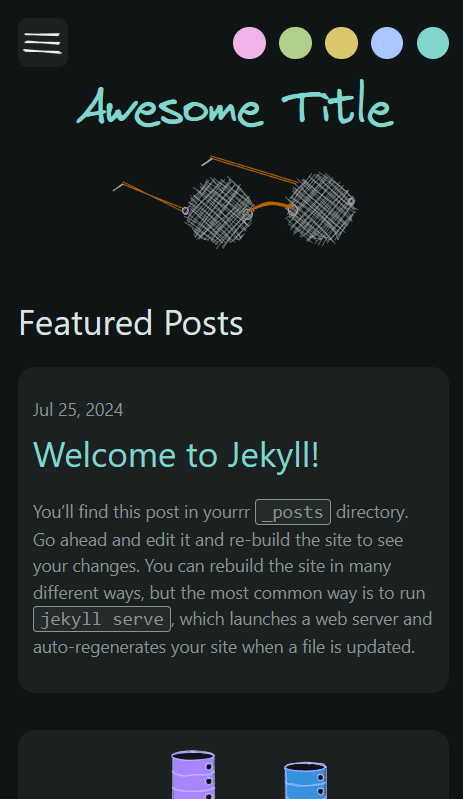
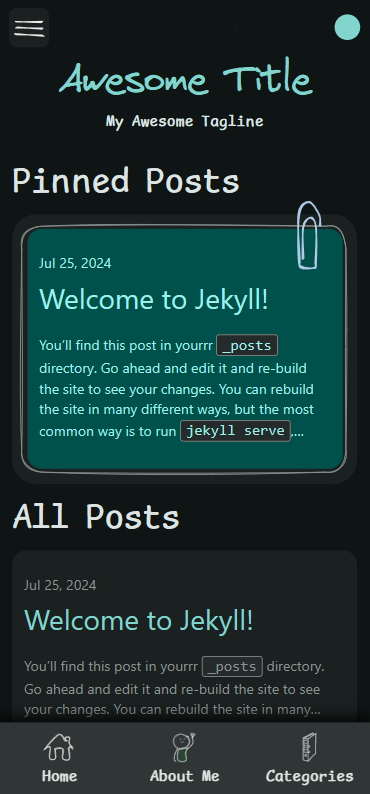
updated theme name and readme

diff --git a/README.md b/README.md
@@ -1,6 +1,6 @@
 # Dark Theme for Jekyll Blogs
 
-Minimalistic dark theme for [Jekyll](https://jekyllrb.com/) blogs with 5 different color schemes.
+Dark theme for [Jekyll](https://jekyllrb.com/) blogs with handwriting fonts and 5 color schemes.
 | | |
 | ----------------------- | ----------------------- |
 | ![GitHub](/etc/ss1.png) | ![GitHub](/etc/ss2.png) |
@@ -34,7 +34,7 @@ $ bundle
 - Add this your `_config.yml` file.
 
 ```yml
-remote_theme: "gulnoor/jekyll-blog-theme"
+remote_theme: "gulnoor/jekyll-theme-handwritten"
 ```
 
 - Remove any other theme: or remote_theme: entry.
@@ -44,13 +44,13 @@ remote_theme: "gulnoor/jekyll-blog-theme"
 Add this line to your Jekyll site's `Gemfile`:
 
 ```ruby
-gem "dark-theme-blog"
+gem "jekyll-theme-handwritten"
 ```
 
 And add this line to your Jekyll site's `_config.yml`:
 
 ```yaml
-theme: dark-theme-blog
+theme: jekyll-theme-handwritten
 ```
 
 And then execute:
@@ -59,7 +59,7 @@ And then execute:
 
 Or install it yourself as:
 
-    $ gem install darkBlog
+    $ gem install jekyll-theme-handwritten
 
 ## Usage
 
@@ -67,7 +67,6 @@ TODO: Write usage instructions here. Describe your available layouts, includes, 
 
 ### TODO
 
-- [ ] Grid layout for posts on home page
 - [ ] Add support for comments
 - [ ] Search functionality
 
